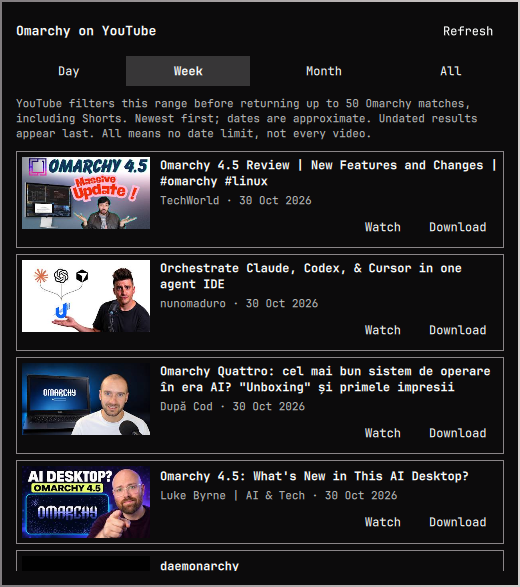
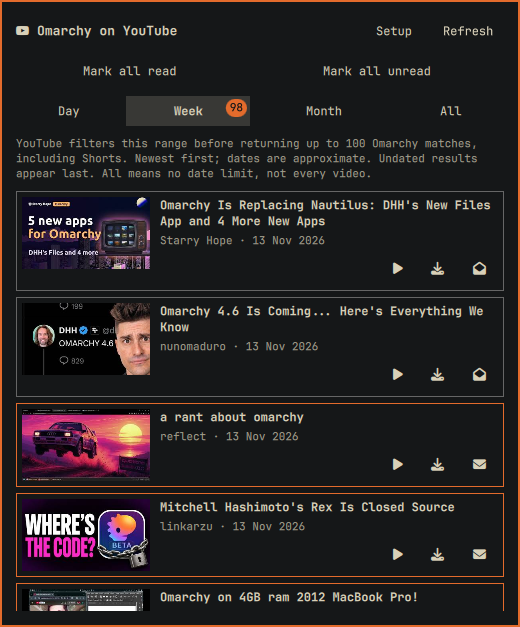
Refresh Video Scout v1.1.0 marketplace preview

diff --git a/README.md b/README.md
@@ -8,10 +8,7 @@ Independent community plugin; not affiliated with YouTube or the Omarchy project
 
 Current version: **1.1.0**. See [CHANGELOG.md](CHANGELOG.md) for release details.
 
-![Omarchy Video Scout v1.0.0 showing recent videos and date filters](preview.png)
-
-The preview shows v1.0.0; v1.1.0 adds the Setup page, unread tracking, and
-icon-only video actions described below.
+![Omarchy Video Scout v1.1.0 showing unread badges, read-state borders, and icon-only video actions](preview.png)
 
 ## Requirements
 
@@ -184,7 +181,7 @@ Static validation does not replace checking the running shell for errors.
 
 Version 1.0.0 was published to the marketplace through
 [submission #13401](https://github.com/omacom/omarchy-plugin-marketplace/issues/13401).
-Version 1.1.0 is prepared for release and updated listing review; the earlier
+Version 1.1.0 is released for updated listing review; the earlier
 validation applies only to the reviewed v1.0.0 commit, not these changes.
 
 Version 1.0.0 checks completed on an Omarchy desktop: clean Git-based installation,
@@ -202,9 +199,8 @@ The complete installable snapshot passed manifest validation, QML lint,
 build artifacts. Full removal/reinstallation was checked for v1.0.0;
 the v1.1.0 checks do not claim a fresh-machine install.
 
-Before requesting updated listing review, publish the prepared commit/release,
-confirm its GitHub Actions checks, and reference the new exact commit/version
-in the marketplace request rather than claiming the old approval covers it.
+Updated listing review must reference the new exact commit/version rather
+than claiming the old approval covers it.
 Suggested category: **Widgets**. Tags: **Bar**, **Media**, **Quickshell**.
 
 Marketplace approval is for listing and is not a security review.

diff --git a/CHANGELOG.md b/CHANGELOG.md
@@ -31,6 +31,7 @@
 - Watch, Download, and read/unread controls are icon-only buttons on one
   row, with translated action tooltips. Envelope icons show the current
   read state: closed for unread and open for read.
+- Refreshed the marketplace preview to show the v1.1.0 UI.
 - Opening the panel no longer starts a search. Manual Refresh remains
   available, and selecting a date filter still searches.
 - Existing results remain visible while a refresh runs.
